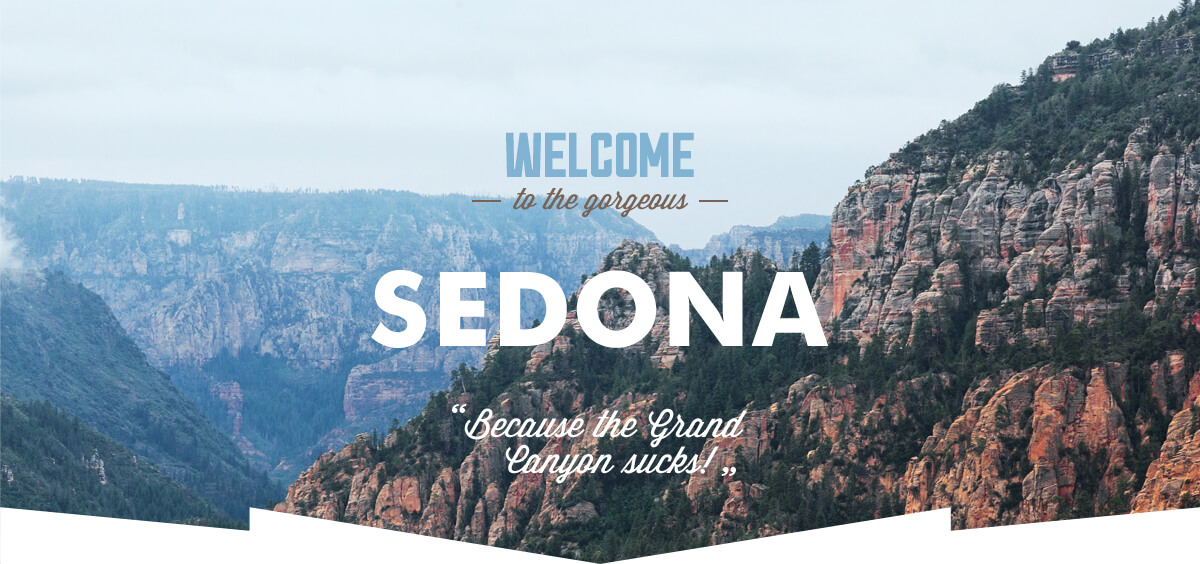
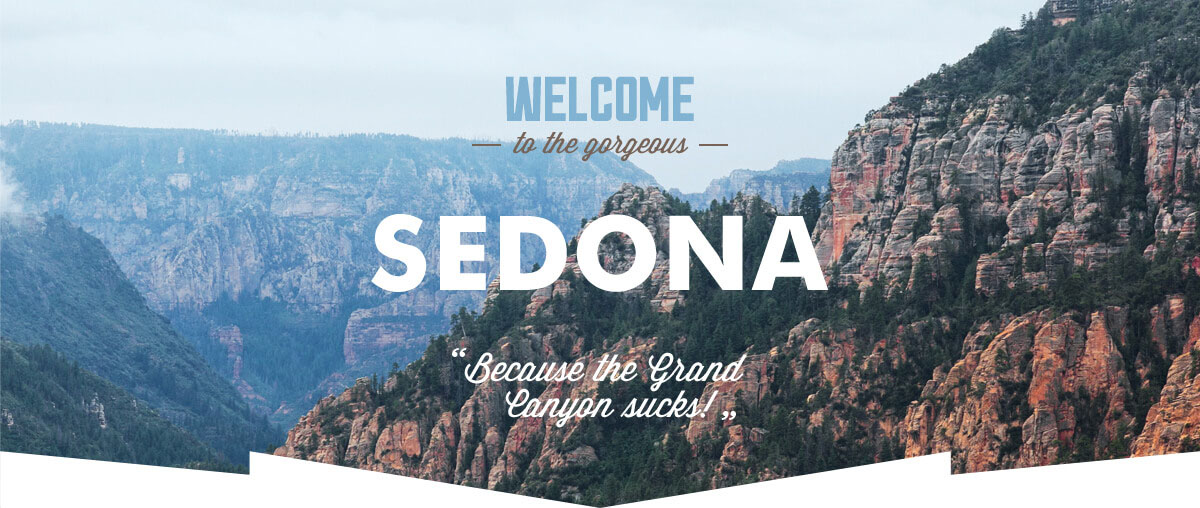
Переделала header согласно обяз. требованию 3.4

diff --git a/css/styles.css b/css/styles.css
@@ -19,6 +19,8 @@ body {
 	padding: 0;
 	border: 0;
 	margin: 0;
+	font-size: 0;
+	line-height: 0;
 }
 
 /* Container for everything */
@@ -49,7 +51,7 @@ a {
 /* Header */
 
 .main-header {
-	height: 56px;
+	min-height: 56px;
 }
 
 .main-nav {
@@ -59,34 +61,50 @@ a {
 	text-transform: uppercase;
 	color: #000000;
 	background-color: #ffffff;
+	list-style: none;
 	
 	position: relative; /* centers the logo */
 }
-.main-nav,
-.main-nav-list {
-	list-style: none;
-}
+
 .main-nav a,
 .main-nav-list a {
 	color: #000000;
 }
 
+
 /* ul becomes flex container */
+
 .main-nav-list {
-	width: 100%;
+	width: 1056px;
 	list-style: none;
-	margin: 0;
+	margin: 0 auto;
 	padding: 0;
 	display: flex;
 	justify-content: space-between;
 	background-color: #ffffff;
 }
+
 .main-nav-item {
-	width: 20%;
 	height: 26px;
-	padding-top: 15px;
-	padding-bottom: 15px;
-	text-align: center;
+	padding: 15px 0;
+}
+
+.main-nav-item:first-child {
+	text-align: left;
+	width: 240px;
+}
+.main-nav-item:nth-child(2) {
+	text-align: left;
+	width: 240px;
+	margin-right: auto;
+}
+.main-nav-item:nth-child(3) {
+	text-align: right;
+	width: 240px;
+}
+.main-nav-item:last-child {
+	text-align: right;
+	width: 240px;
 }
 
 /* Logo is centered */
@@ -121,7 +139,7 @@ a {
 	background-image: url("../img/header-image-indexa.jpg");
 	background-repeat: no-repeat;
 	width: 100%;
-	height: 564px;
+	height: 508px;
 	background-color: #e4f1f9;
 }
 

diff --git a/index.html b/index.html
@@ -20,7 +20,6 @@
 			  	<ul class="main-nav-list">
 				  	<li class="main-nav-item"><a href="info.html">Информация</a></li>
 				  	<li class="main-nav-item"><a href="photo.html">Фото и видео</a></li>
-				  	<li class="main-nav-item"><a></a></li>
 				  	<li class="main-nav-item"><a href="map.html">Карта штата</a></li>
 				  	<li class="main-nav-item"><a href="catalog.html">Гостиницы</a></li>
 		  		</ul>
